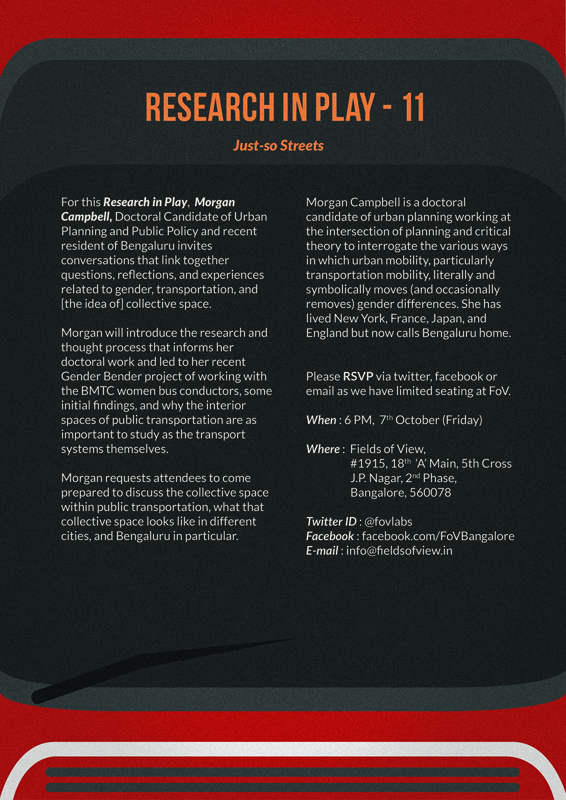
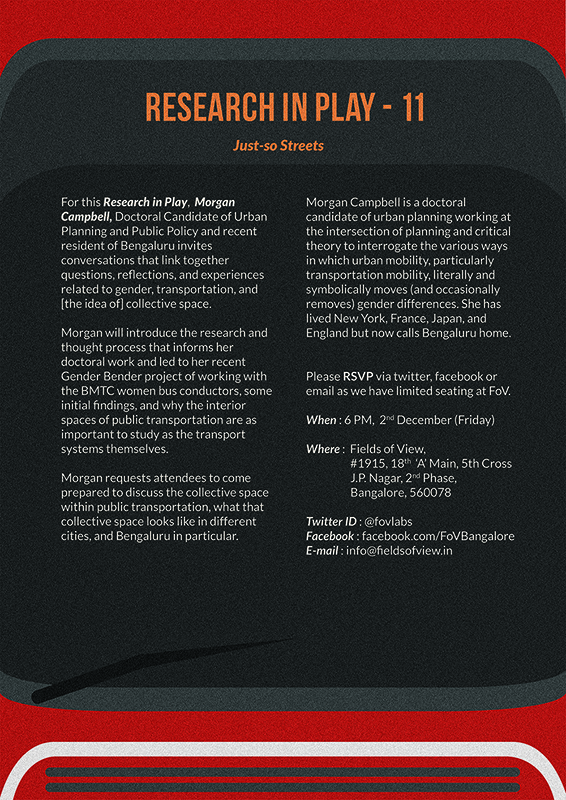
Updated events and past events pages

diff --git a/past-events.html b/past-events.html
@@ -16,6 +16,14 @@ categories:
 
 events:
 -
+  title: Research In Play - 11
+  heading: Just-so Streets
+  when: 6 PM, 2nd December (Friday)
+  description: <p class="simple-content">For this Research in Play,  Morgan Campbell, Doctoral Candidate of Urban Planning and Public Policy and recent resident of Bengaluru invites conversations that link together questions, reflections, and experiences related to gender, transportation, and [the idea of] collective space.</p><p class="simple-content">Morgan will introduce the research and thought process that informs her doctoral work and led to her recent Gender Bender project of working with the BMTC women bus conductors, some initial findings, and why the interior spaces of public transportation are as important to study as the transport systems themselves.</p><p class="simple-content">Morgan requests attendees to come prepared to discuss the collective space within public transportation, what that collective space looks like in different cities, and Bengaluru in particular.</p><p class="simple-content">Morgan Campbell is a doctoral candidate of urban planning working at the intersection of planning and critical theory to interrogate the various ways in which urban mobility, particularly transportation mobility, literally and symbolically moves (and occasionally removes) gender differences. She has lived New York, France, Japan, and England but now calls Bengaluru home.</p>
+  img: /img/RIP11.jpg
+  categories: researchinplay
+  ide: rip11
+-
   title: Research In Play - 10
   heading: We Must Risk Delight - What the Stories of Mahila Samakhya Tell Us.
   when: 6 PM, 5th August (Friday)

diff --git a/events.html b/events.html
@@ -3,4 +3,12 @@ layout: events-layout
 title: Events
 bg-url: /img/background-events.png
 posters:
+-
+  title: Research In Play - 12
+  heading: A Tale of Complexity - Poverty, Income and Well-being
+  when: 6 PM, 20th January (Friday)
+  description: <p class="simple-content">The recent Oxfam report on inequality paints a grim picture of India. It is often assumed that improving income/wages will result in a greater quality of life. The Universal Basic Income flows from the same idea. Meanwhile, there has been a shift in conceptualizing poverty in an interconnected manner, rather than in a reductive way. This begs the question whether the relationship between income/wages and well-being is linear. It is in this context, Bharath will discuss his approach in modeling the complex and dynamic relationship between income/wages and well-being, and the potential computational approaches offer in creating such models. This could lead to a better understanding of the factors that need to be addressed in designing policies to address poverty.</p><p class="simple-content">Bharath M. Palavalli designs games and simulations to understand complex adaptive systems. He is currently working on identifying and understanding the conflict prone relationship between the urban poor and the city; specifically, to help in policy design and planning in a rapidly urbanizing context of developing countries. Previously, he has designed agent based simulation frameworks, and games for safety and learning.</p>
+  img: /img/RIP12.jpg
+  categories: researchinplay
+  ide: rip12
 ---
